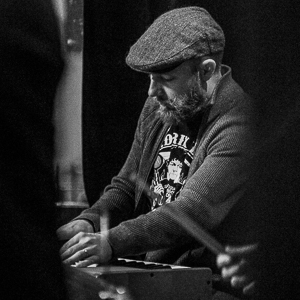
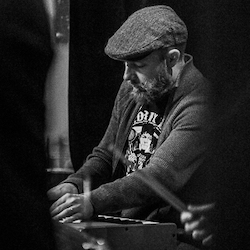
Resized about image to elimate need for resizing via css.

diff --git a/assets/style.css b/assets/style.css
@@ -2,10 +2,6 @@ body {
     background-color: #F7F7FF;
 }
 
-#about-img {
-    max-width: 250px;
-}
-
 .nav-item {
     padding-left: 2rem;
 }
